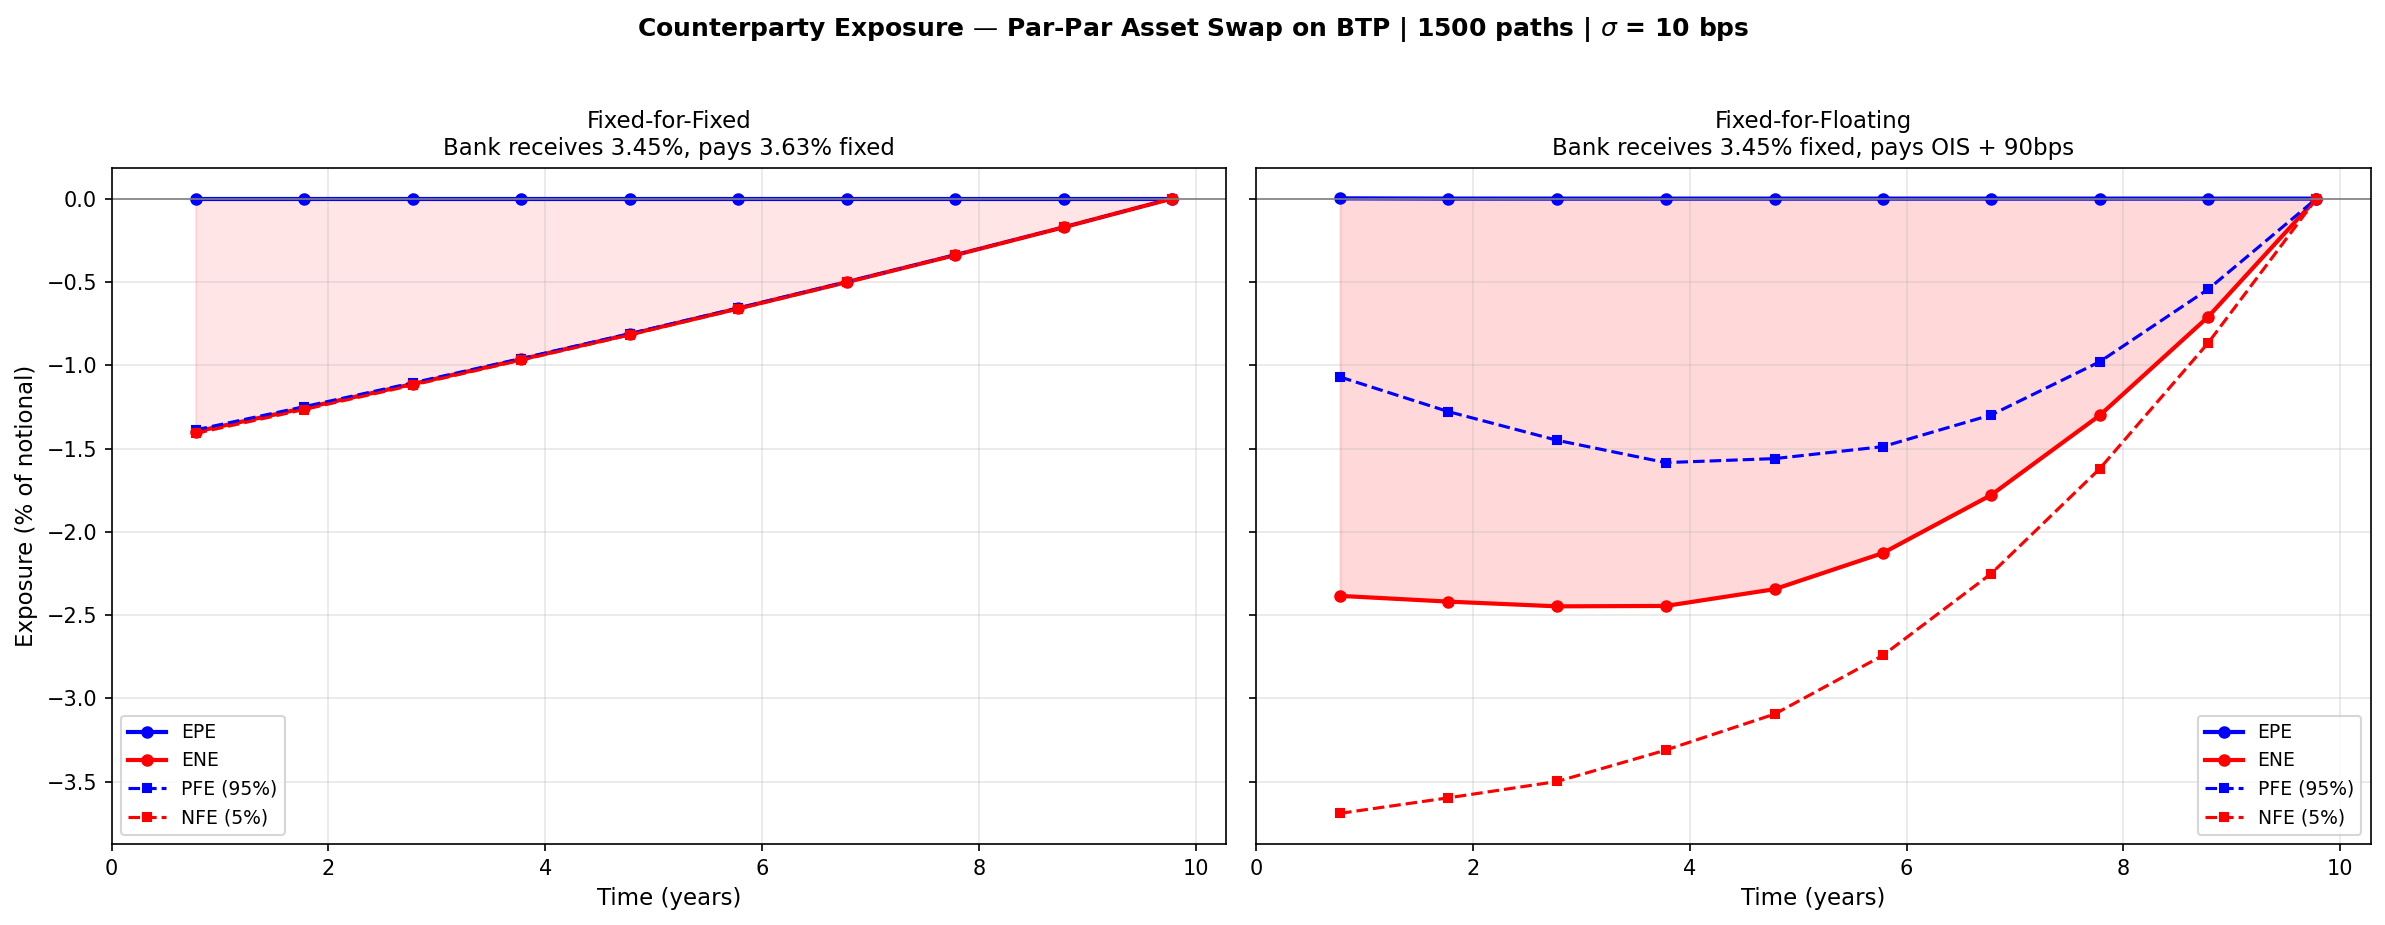
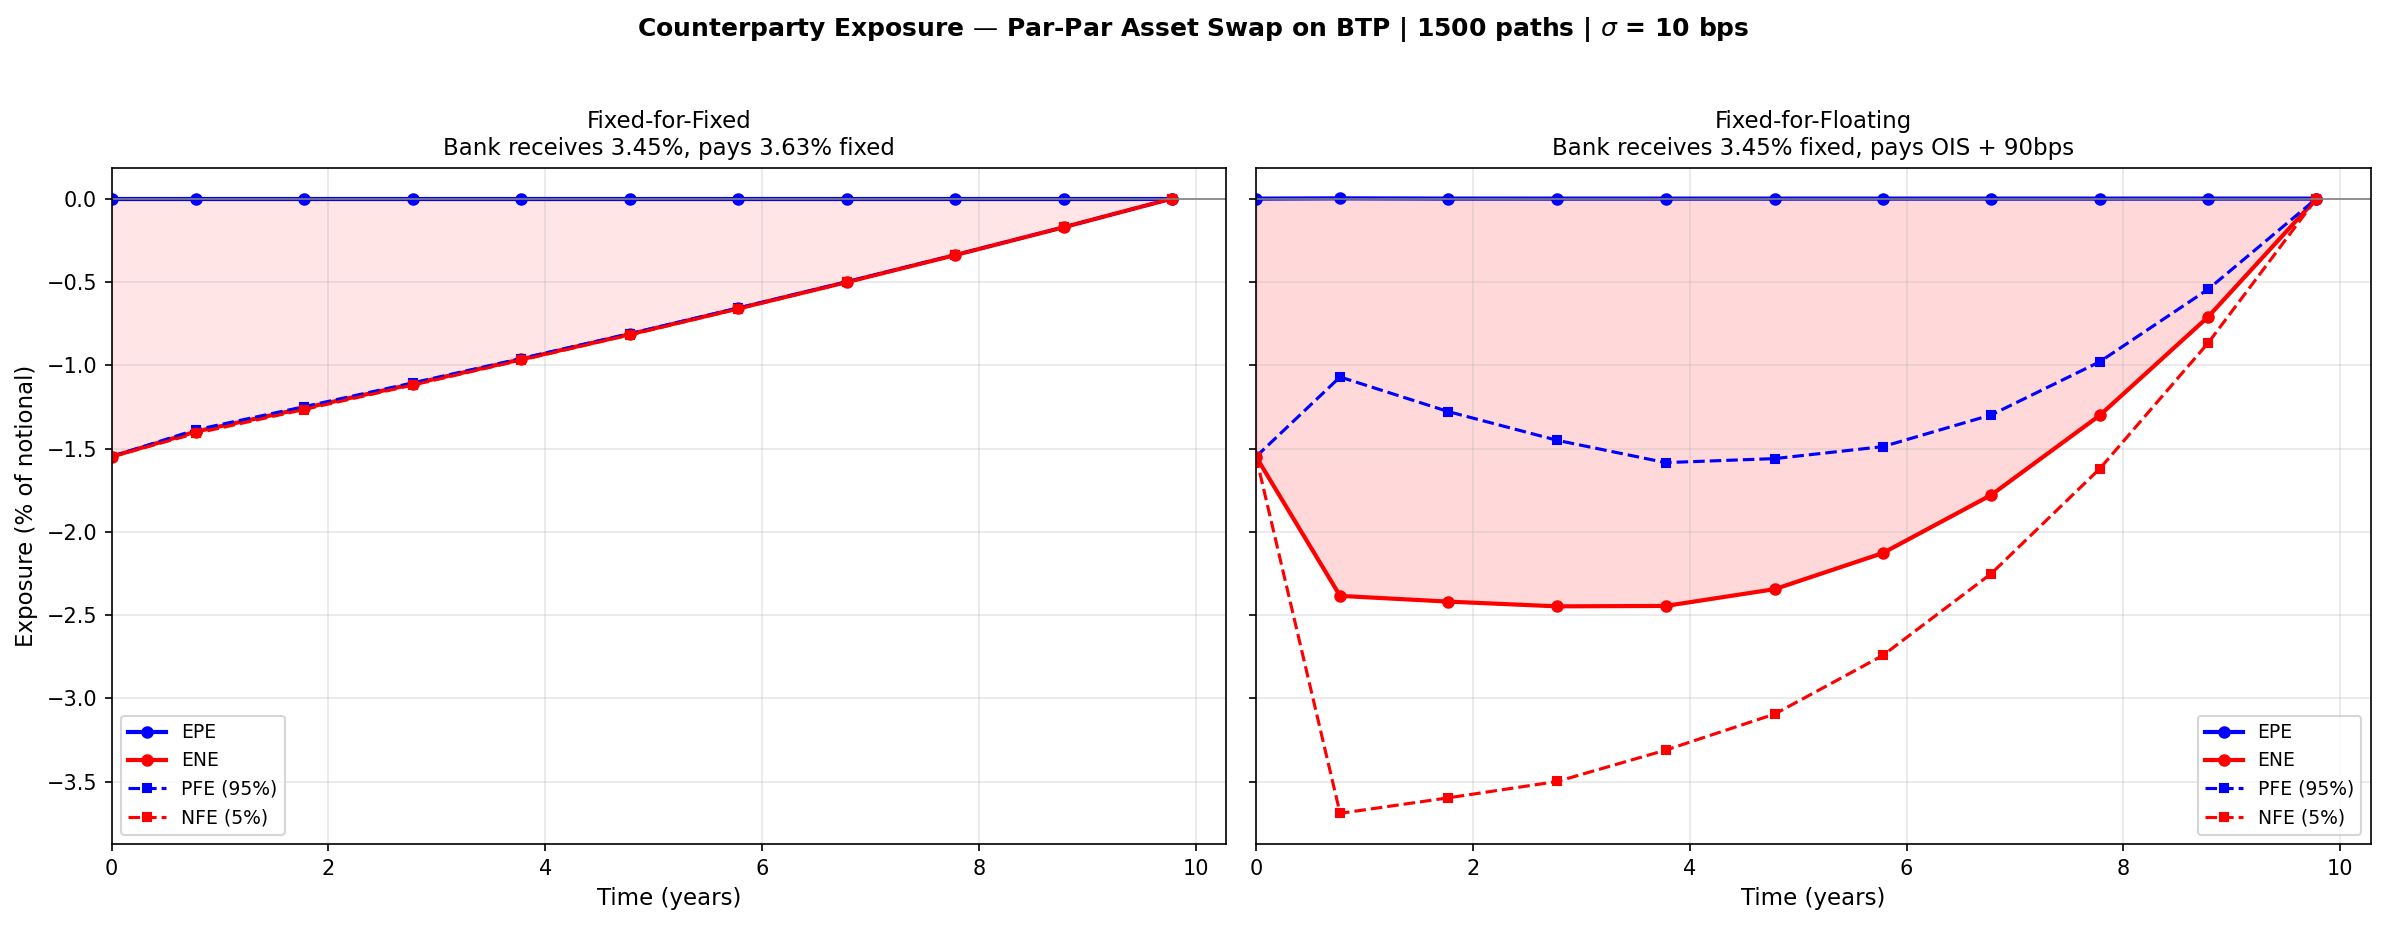
Fix t=0 exposure to use deterministic inception MtM
All four profiles (EPE, ENE, PFE, NFE) now start from the single
known MtM at t=0 (= P - N = -1.5489%). The Monte Carlo simulation
only applies to future tenor points; the t=0 value is prepended
as a deterministic point with no simulation.

https://claude.ai/code/session_01C9YQZrd7hzpYqkqkU8KkPY

Changed region(s): [[0.031, 0.2119, 0.0931, 0.5146], [0.5275, 0.2119, 0.5585, 0.6357]]

diff --git a/Exposure_ASW.py b/Exposure_ASW.py
@@ -253,6 +253,10 @@ print("  Fix-float simulation complete.")
 
 # ==============================================================
 # [10]  EXPOSURE METRICS FOR BOTH STRUCTURES
+#
+#       Time 0 is deterministic (no simulation): all paths have the
+#       same inception MtM = P - N.  Prepend this known value so
+#       all four profiles start from the single t=0 point.
 # ==============================================================
 def compute_exposure_metrics(mtm):
     epe = np.maximum(mtm, 0.0).mean(axis=0)
@@ -261,22 +265,42 @@ def compute_exposure_metrics(mtm):
     nfe = np.percentile(mtm, 5, axis=0)
     return epe, ene, pfe, nfe
 
-EPE_ff, ENE_ff, PFE_ff, NFE_ff = compute_exposure_metrics(mtm_fixfix)
-EPE_fl, ENE_fl, PFE_fl, NFE_fl = compute_exposure_metrics(mtm_fixflt)
+EPE_ff_sim, ENE_ff_sim, PFE_ff_sim, NFE_ff_sim = compute_exposure_metrics(mtm_fixfix)
+EPE_fl_sim, ENE_fl_sim, PFE_fl_sim, NFE_fl_sim = compute_exposure_metrics(mtm_fixflt)
+
+# Deterministic t=0 value: all profiles collapse to the inception MtM
+mtm0 = upfront   # = P - N = -1.5489%
+t0_epe = max(mtm0, 0.0)
+t0_ene = min(mtm0, 0.0)
+
+# Prepend t=0 to tenor grid and all exposure arrays
+plot_years = [0.0] + list(tenor_years)
+
+EPE_ff = np.concatenate([[t0_epe], EPE_ff_sim])
+ENE_ff = np.concatenate([[t0_ene], ENE_ff_sim])
+PFE_ff = np.concatenate([[mtm0],  PFE_ff_sim])
+NFE_ff = np.concatenate([[mtm0],  NFE_ff_sim])
+
+EPE_fl = np.concatenate([[t0_epe], EPE_fl_sim])
+ENE_fl = np.concatenate([[t0_ene], ENE_fl_sim])
+PFE_fl = np.concatenate([[mtm0],  PFE_fl_sim])
+NFE_fl = np.concatenate([[mtm0],  NFE_fl_sim])
 
 print(f"\n[4a] FIX-FIX EXPOSURE (% of notional, bank perspective)")
 print(f"  {'Tenor':>8}  {'EPE':>8}  {'ENE':>8}  {'PFE 95%':>10}  {'NFE 5%':>10}")
 print(f"  {'-'*50}")
-for i, y in enumerate(tenor_years):
-    print(f"  {y:>7.2f}Y  {EPE_ff[i]:>8.4f}  {ENE_ff[i]:>8.4f}  {PFE_ff[i]:>10.4f}  {NFE_ff[i]:>10.4f}")
+for i, y in enumerate(plot_years):
+    print(f"  {y:>7.2f}Y  {EPE_ff[i]:>8.4f}  {ENE_ff[i]:>8.4f}  {PFE_ff[i]:>10.4f}  {NFE_ff[i]:>10.4f}"
+          + ("  <- deterministic" if y == 0.0 else ""))
 
 print(f"\n  EPE ~ 0: c < K so bank is always OTM (one-sided exposure).")
 
 print(f"\n[4b] FIX-FLOAT EXPOSURE (% of notional, bank perspective)")
 print(f"  {'Tenor':>8}  {'EPE':>8}  {'ENE':>8}  {'PFE 95%':>10}  {'NFE 5%':>10}")
 print(f"  {'-'*50}")
-for i, y in enumerate(tenor_years):
-    print(f"  {y:>7.2f}Y  {EPE_fl[i]:>8.4f}  {ENE_fl[i]:>8.4f}  {PFE_fl[i]:>10.4f}  {NFE_fl[i]:>10.4f}")
+for i, y in enumerate(plot_years):
+    print(f"  {y:>7.2f}Y  {EPE_fl[i]:>8.4f}  {ENE_fl[i]:>8.4f}  {PFE_fl[i]:>10.4f}  {NFE_fl[i]:>10.4f}"
+          + ("  <- deterministic" if y == 0.0 else ""))
 
 print(f"\n  Two-sided: rates down → EPE > 0 (bank gains on fixed leg).")
 print(f"             rates up   → ENE < 0 (floating leg costs more).")
@@ -287,13 +311,13 @@ print(f"             rates up   → ENE < 0 (floating leg costs more).")
 fig, (ax1, ax2) = plt.subplots(1, 2, figsize=(16, 6), sharey=True)
 
 # ---- Left: Fixed-for-Fixed ----
-ax1.plot(tenor_years, EPE_ff, "b-o",  lw=2, ms=5, label="EPE")
-ax1.plot(tenor_years, ENE_ff, "r-o",  lw=2, ms=5, label="ENE")
-ax1.plot(tenor_years, PFE_ff, "b--s", lw=1.5, ms=4, label="PFE (95%)")
-ax1.plot(tenor_years, NFE_ff, "r--s", lw=1.5, ms=4, label="NFE (5%)")
+ax1.plot(plot_years, EPE_ff, "b-o",  lw=2, ms=5, label="EPE")
+ax1.plot(plot_years, ENE_ff, "r-o",  lw=2, ms=5, label="ENE")
+ax1.plot(plot_years, PFE_ff, "b--s", lw=1.5, ms=4, label="PFE (95%)")
+ax1.plot(plot_years, NFE_ff, "r--s", lw=1.5, ms=4, label="NFE (5%)")
 ax1.axhline(0, color="grey", lw=0.8)
-ax1.fill_between(tenor_years, 0, EPE_ff, alpha=0.1, color="blue")
-ax1.fill_between(tenor_years, ENE_ff, 0, alpha=0.1, color="red")
+ax1.fill_between(plot_years, 0, EPE_ff, alpha=0.1, color="blue")
+ax1.fill_between(plot_years, ENE_ff, 0, alpha=0.1, color="red")
 ax1.set_xlabel("Time (years)", fontsize=11)
 ax1.set_ylabel("Exposure (% of notional)", fontsize=11)
 ax1.set_title(
@@ -303,16 +327,16 @@ ax1.set_title(
 )
 ax1.legend(loc="best", fontsize=9)
 ax1.grid(True, alpha=0.3)
-ax1.set_xlim(0, tenor_years[-1] + 0.5)
+ax1.set_xlim(0, plot_years[-1] + 0.5)
 
 # ---- Right: Fixed-for-Floating ----
-ax2.plot(tenor_years, EPE_fl, "b-o",  lw=2, ms=5, label="EPE")
-ax2.plot(tenor_years, ENE_fl, "r-o",  lw=2, ms=5, label="ENE")
-ax2.plot(tenor_years, PFE_fl, "b--s", lw=1.5, ms=4, label="PFE (95%)")
-ax2.plot(tenor_years, NFE_fl, "r--s", lw=1.5, ms=4, label="NFE (5%)")
+ax2.plot(plot_years, EPE_fl, "b-o",  lw=2, ms=5, label="EPE")
+ax2.plot(plot_years, ENE_fl, "r-o",  lw=2, ms=5, label="ENE")
+ax2.plot(plot_years, PFE_fl, "b--s", lw=1.5, ms=4, label="PFE (95%)")
+ax2.plot(plot_years, NFE_fl, "r--s", lw=1.5, ms=4, label="NFE (5%)")
 ax2.axhline(0, color="grey", lw=0.8)
-ax2.fill_between(tenor_years, 0, EPE_fl, alpha=0.15, color="blue")
-ax2.fill_between(tenor_years, ENE_fl, 0, alpha=0.15, color="red")
+ax2.fill_between(plot_years, 0, EPE_fl, alpha=0.15, color="blue")
+ax2.fill_between(plot_years, ENE_fl, 0, alpha=0.15, color="red")
 ax2.set_xlabel("Time (years)", fontsize=11)
 ax2.set_title(
     "Fixed-for-Floating\n"
@@ -321,7 +345,7 @@ ax2.set_title(
 )
 ax2.legend(loc="best", fontsize=9)
 ax2.grid(True, alpha=0.3)
-ax2.set_xlim(0, tenor_years[-1] + 0.5)
+ax2.set_xlim(0, plot_years[-1] + 0.5)
 
 fig.suptitle(
     f"Counterparty Exposure — Par-Par Asset Swap on BTP | "
